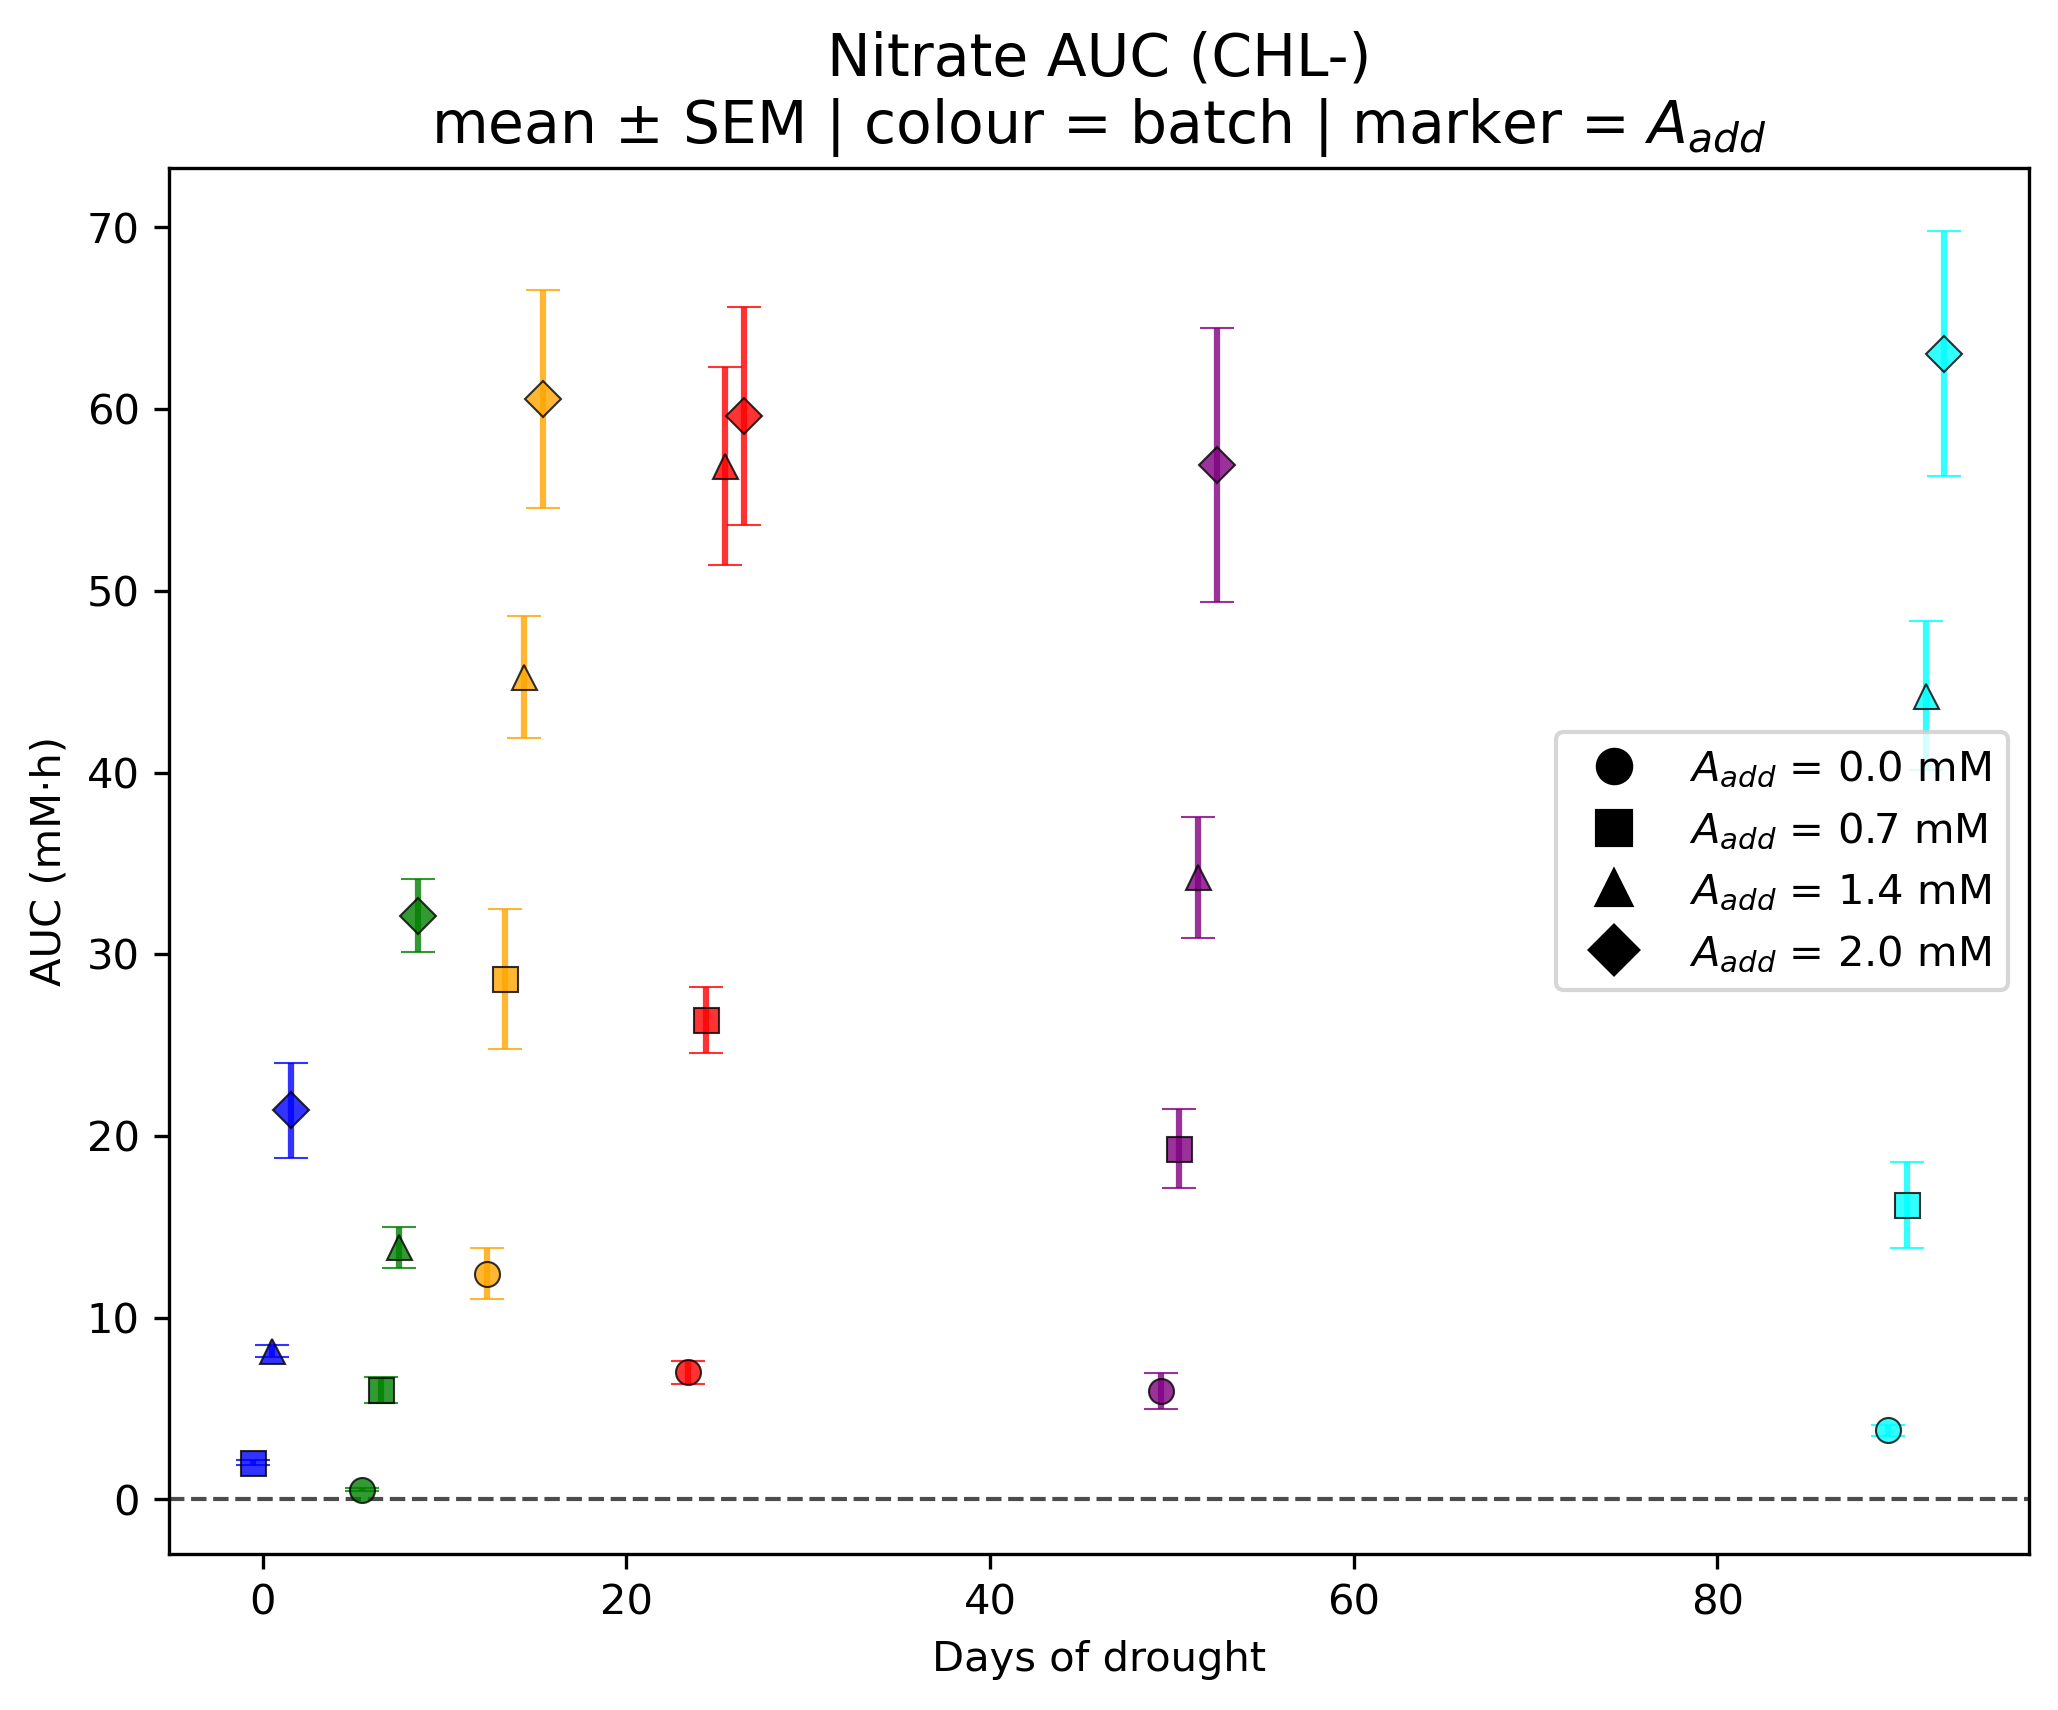
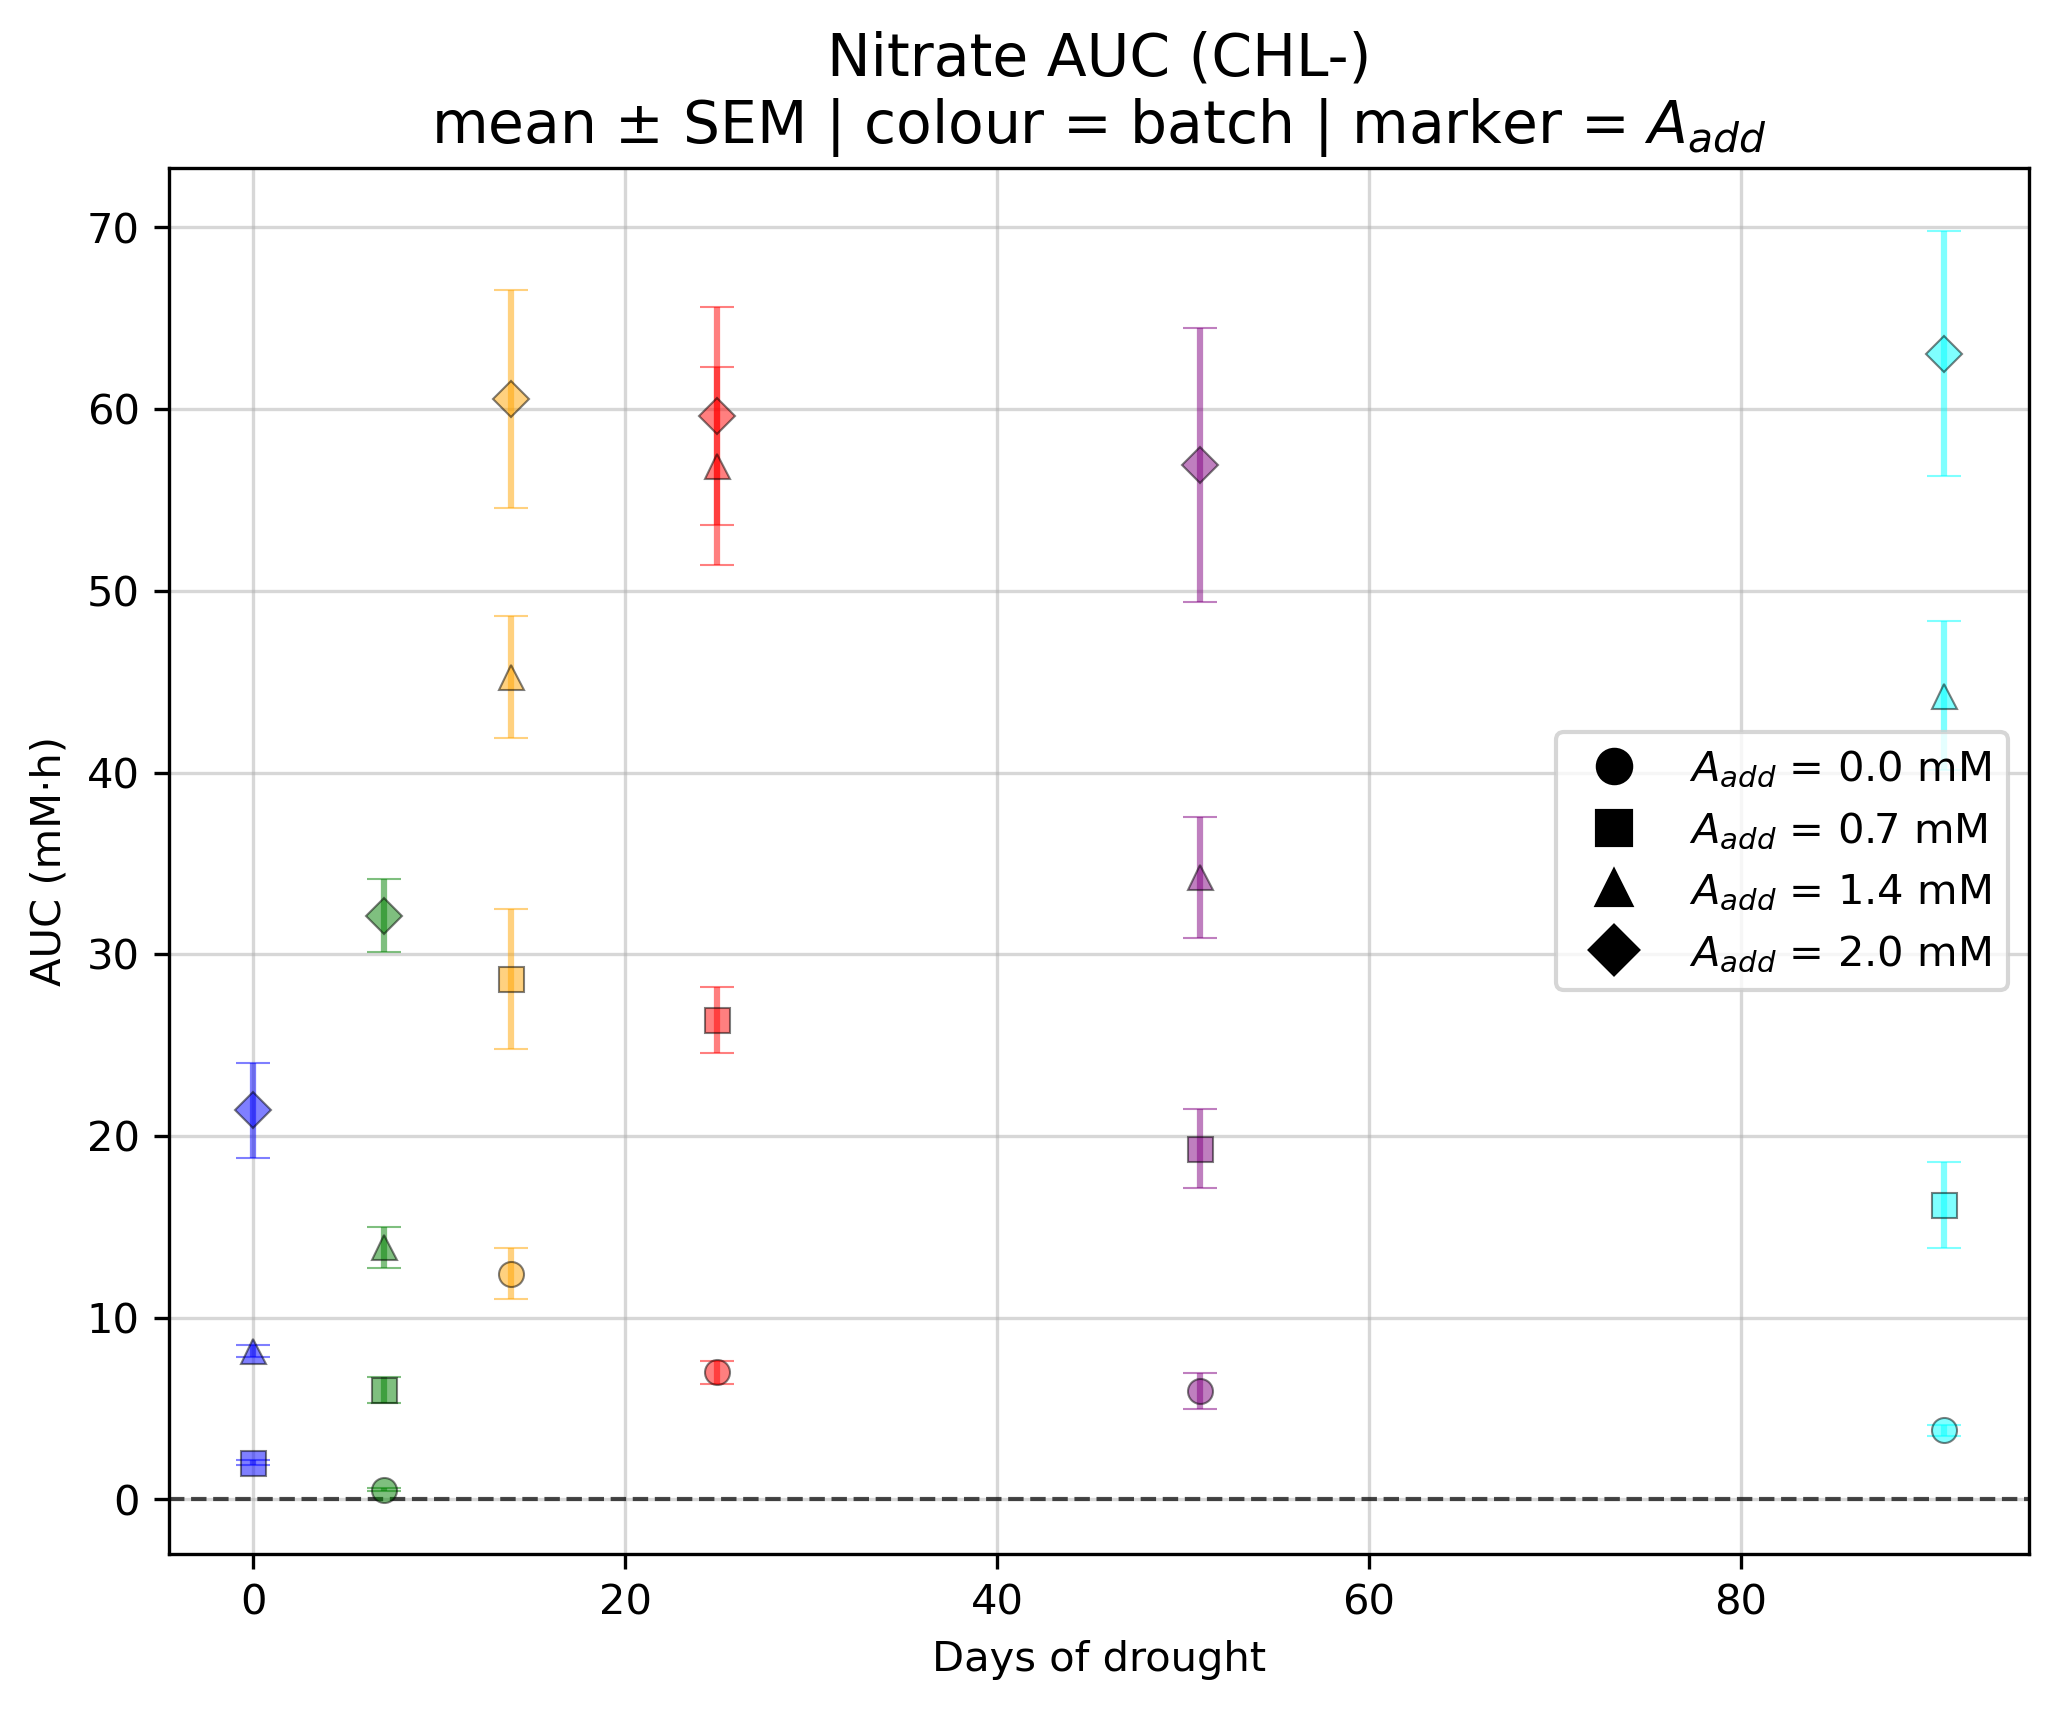
.

diff --git a/plot_chl0_20260901.py b/plot_chl0_20260901.py
@@ -250,9 +250,9 @@ def plot_chl0_mean_sem(quantity_key, analyte, quantity_label, ylabel):
                 continue
             mean = values.mean()
             sem = values.std(ddof=1) / np.sqrt(len(values)) if len(values) > 1 else 0.0
-            x = x_batch + offset_unit * (add_i - 1.5)
+            x = x_batch # + offset_unit * (add_i - 1.5)
             ax.errorbar(x, mean, yerr=sem, fmt=markers[add_i], color=batch_colors[i],
-                        markersize=6, capsize=4, elinewidth=1.5, markeredgecolor='black', markeredgewidth=0.5, alpha=0.8)
+                        markersize=6, capsize=4, elinewidth=1.5, markeredgecolor='black', markeredgewidth=0.5, alpha=0.5)
 
     ax.axhline(0, color='black', linestyle='--', linewidth=1, alpha=0.7)
     ax.set_title(f'{analyte_label} {quantity_label} (CHL-)' + '\n' +
@@ -261,6 +261,7 @@ def plot_chl0_mean_sem(quantity_key, analyte, quantity_label, ylabel):
     ax.set_ylabel(ylabel)
     custom_lines = [Line2D([0], [0], color='black', marker=marker, linestyle='None', markersize=8, label=f'${add_symbol}_{{add}}$ = {conc} mM') for marker, conc in zip(markers, add_conc)]
     ax.legend(handles=custom_lines)
+    ax.grid(True, alpha=0.5)
     fn = f'plots/4.2.chl0_{analyte}_{quantity_key}_mean_sem_{datetime.datetime.now().strftime("%Y%m%d")}.png'
     fig.savefig(fn, dpi=300, bbox_inches='tight')
     print(f'Figure saved to {fn}')
